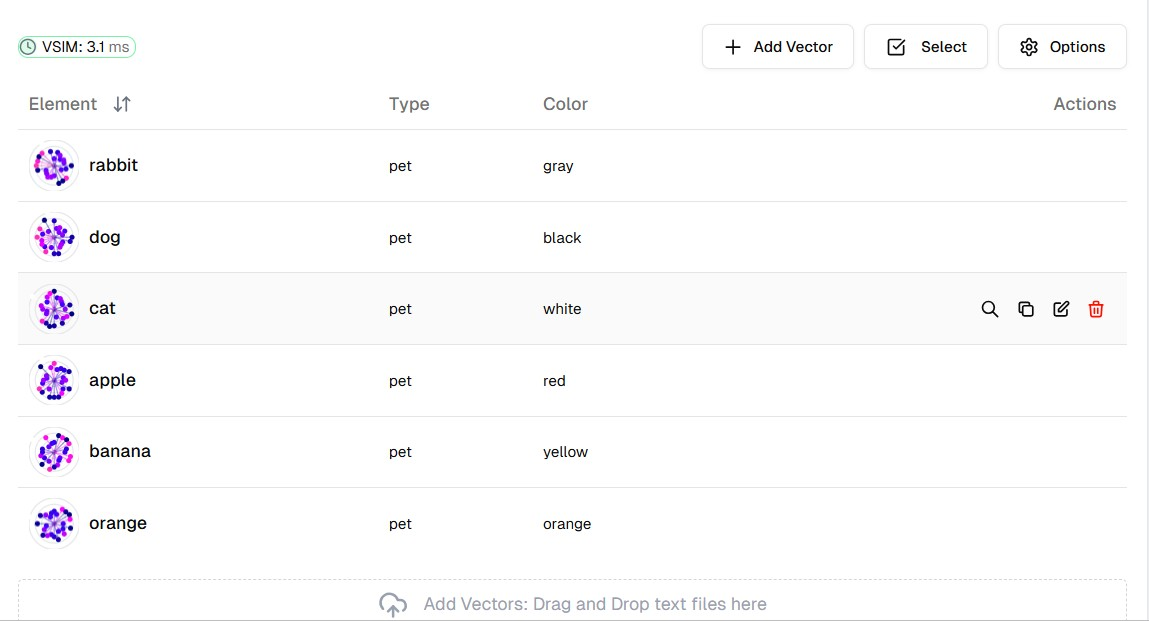
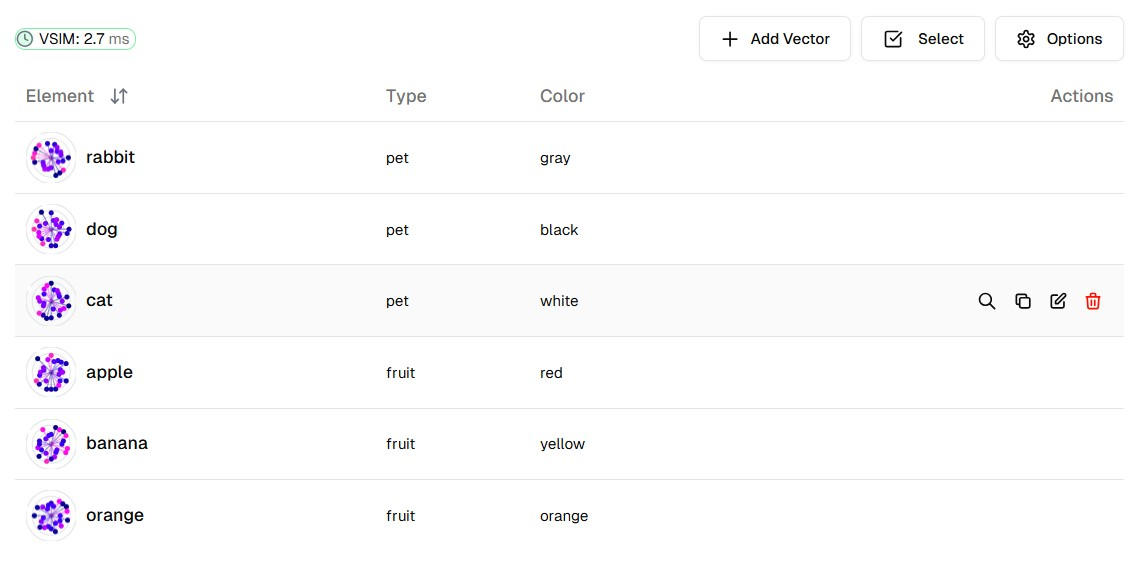
write more

diff --git a/README.md b/README.md
@@ -553,11 +553,11 @@ Now, open `REDIS-CLI` and type:
 (integer) 1
 > VSETATTR myset rabbit "{\"type\": \"pet\", \"color\": \"gray\"}" 
 (integer) 1
-> VSETATTR myset apple "{\"type\": \"pet\", \"color\": \"red\"}" 
+> VSETATTR myset apple "{\"type\": \"fruit\", \"color\": \"red\"}" 
 (integer) 1
-> VSETATTR myset banana "{\"type\": \"pet\", \"color\": \"yellow\"}" 
+> VSETATTR myset banana "{\"type\": \"fruit\", \"color\": \"yellow\"}" 
 (integer) 1
-> VSETATTR myset orange "{\"type\": \"pet\", \"color\": \"orange\"}" 
+> VSETATTR myset orange "{\"type\": \"fruit\", \"color\": \"orange\"}" 
 (integer) 1
 
 > VGETATTR myset cat 
@@ -566,6 +566,19 @@ Now, open `REDIS-CLI` and type:
 ![alt myset](img/myset.JPG)
 
 ![alt Edit-Attributes](img/Edit-Attributes.JPG)
+
+```
+> VSIM myset ELE cat WITHSCORES WITHATTRIBS FILTER ".type=='pet'"
+1) "cat"
+2) "1"
+3) "{\"type\": \"pet\", \"color\": \"white\"}"
+4) "dog"
+5) "0.8457243144512177"
+6) "{\"type\": \"pet\", \"color\": \"black\"}"
+7) "rabbit"
+8) "0.8183082044124603"
+9) "{\"type\": \"pet\", \"color\": \"gray\"}"
+```
 
 
 #### V. Biblipgraphy 
